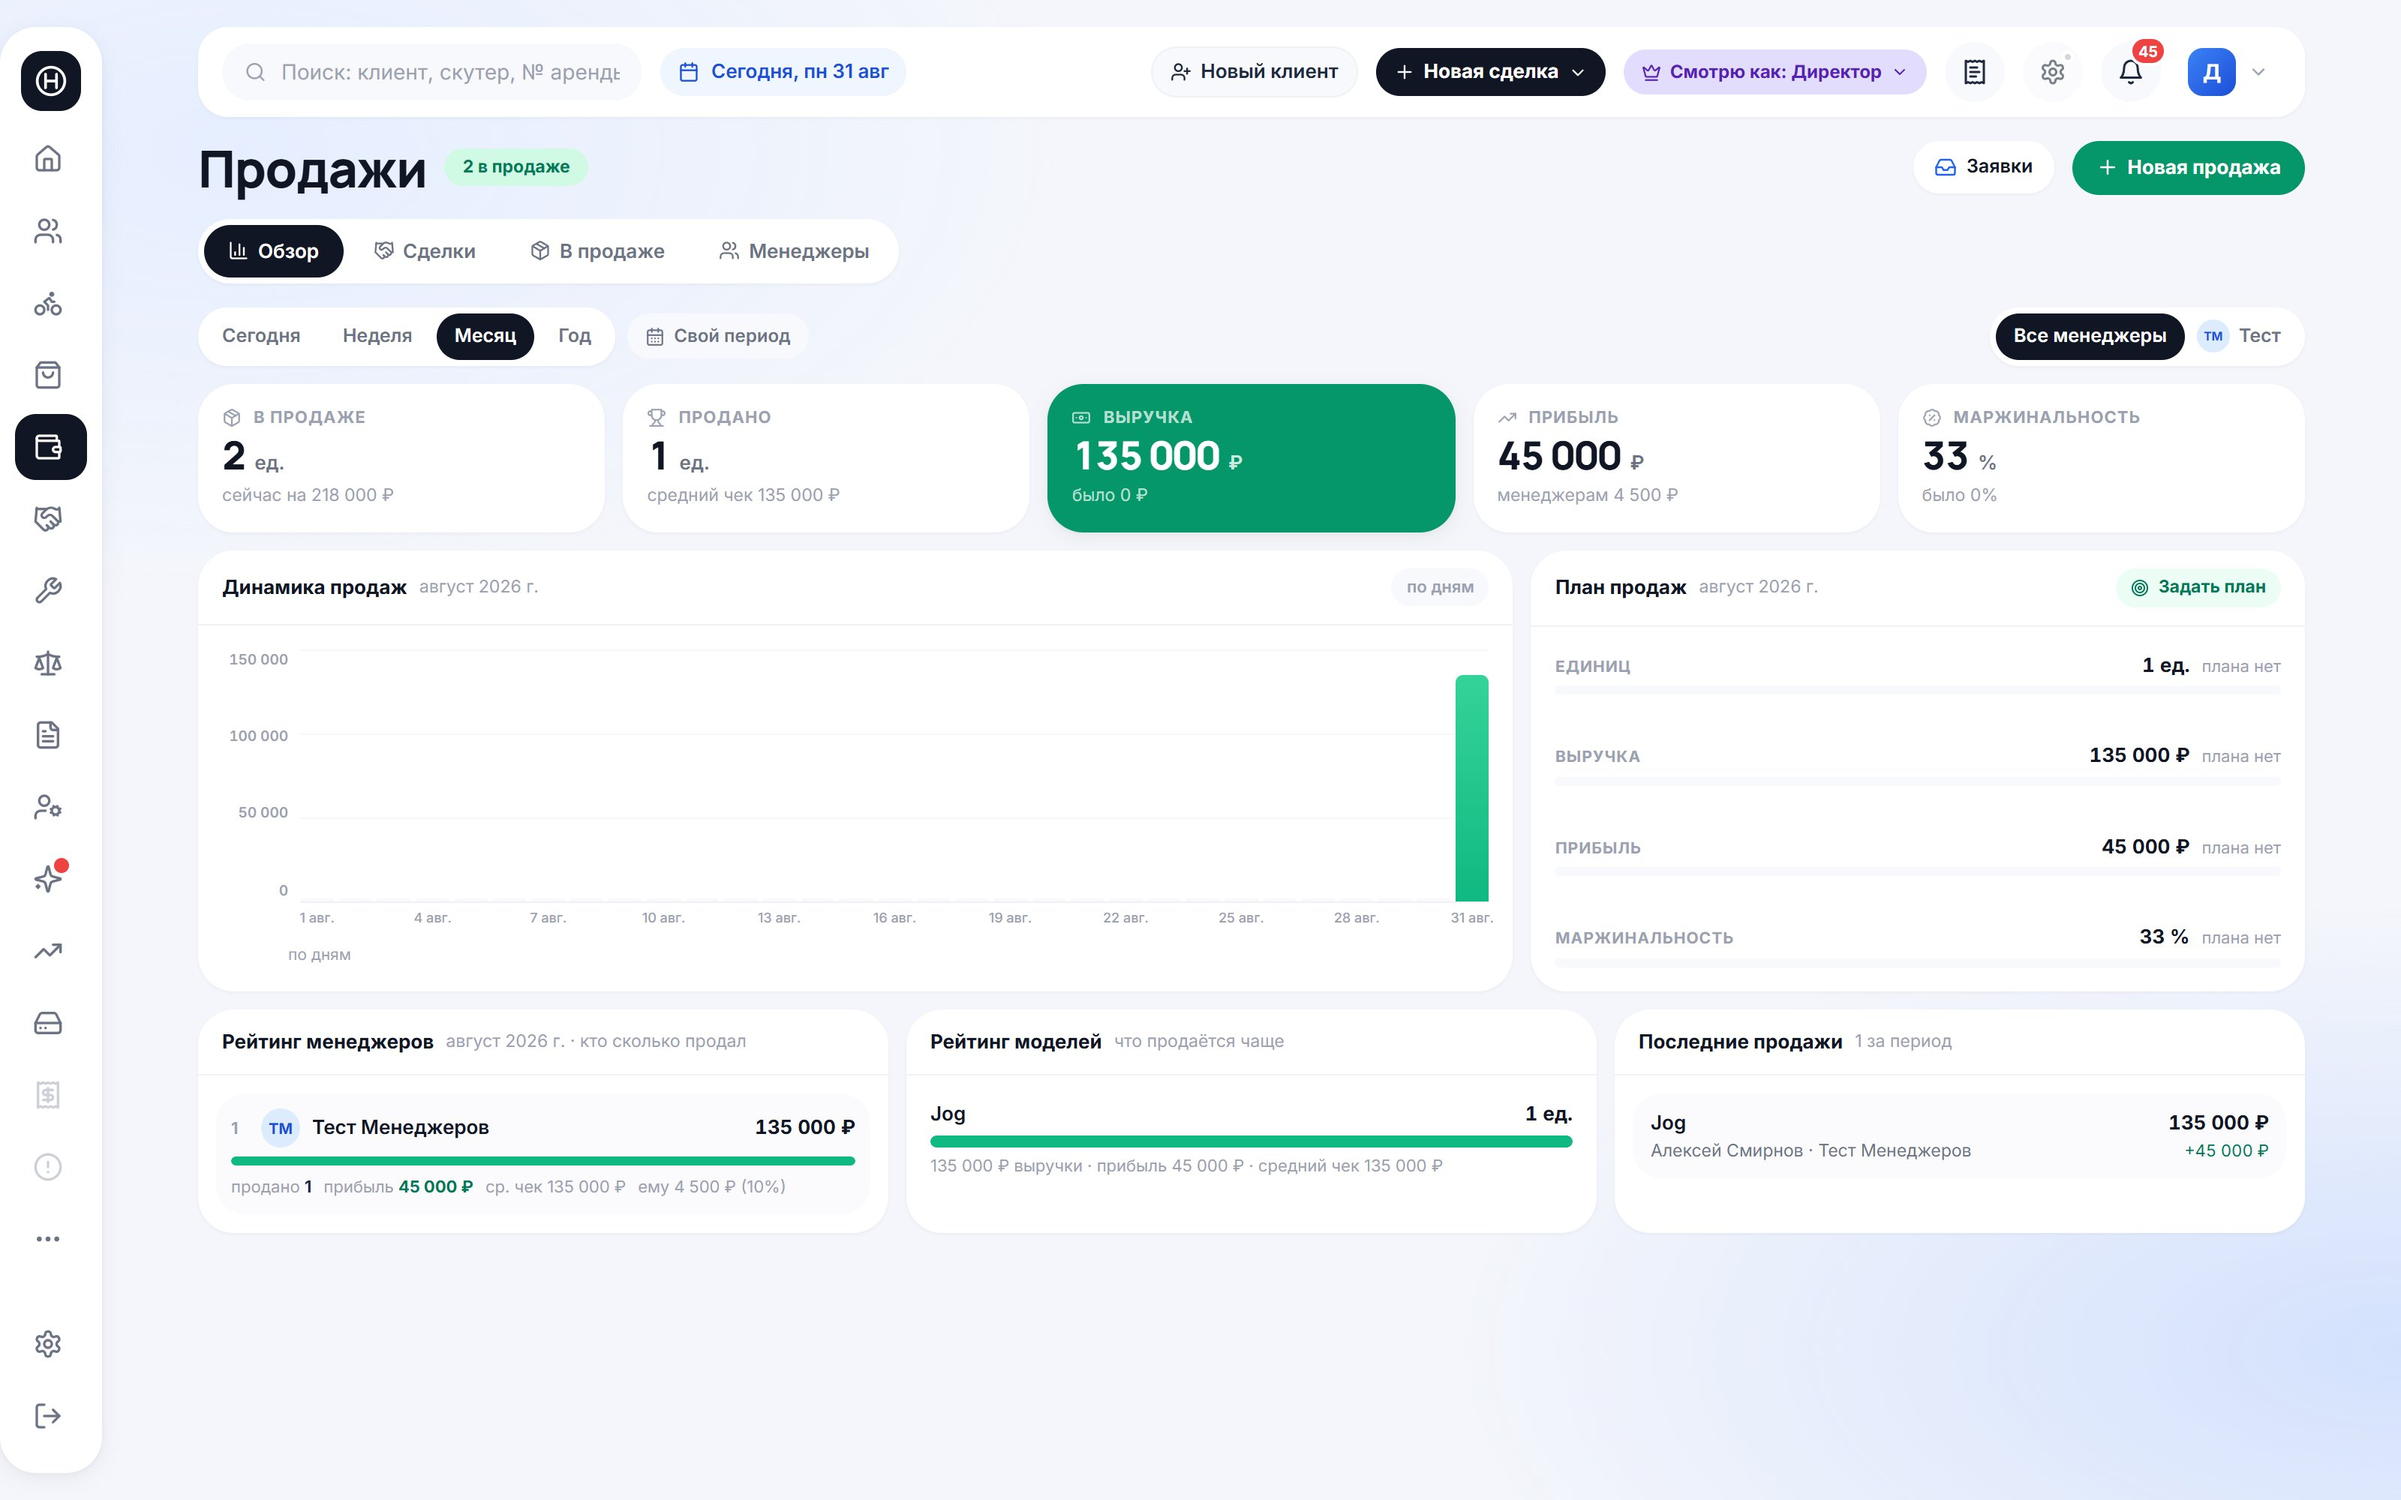
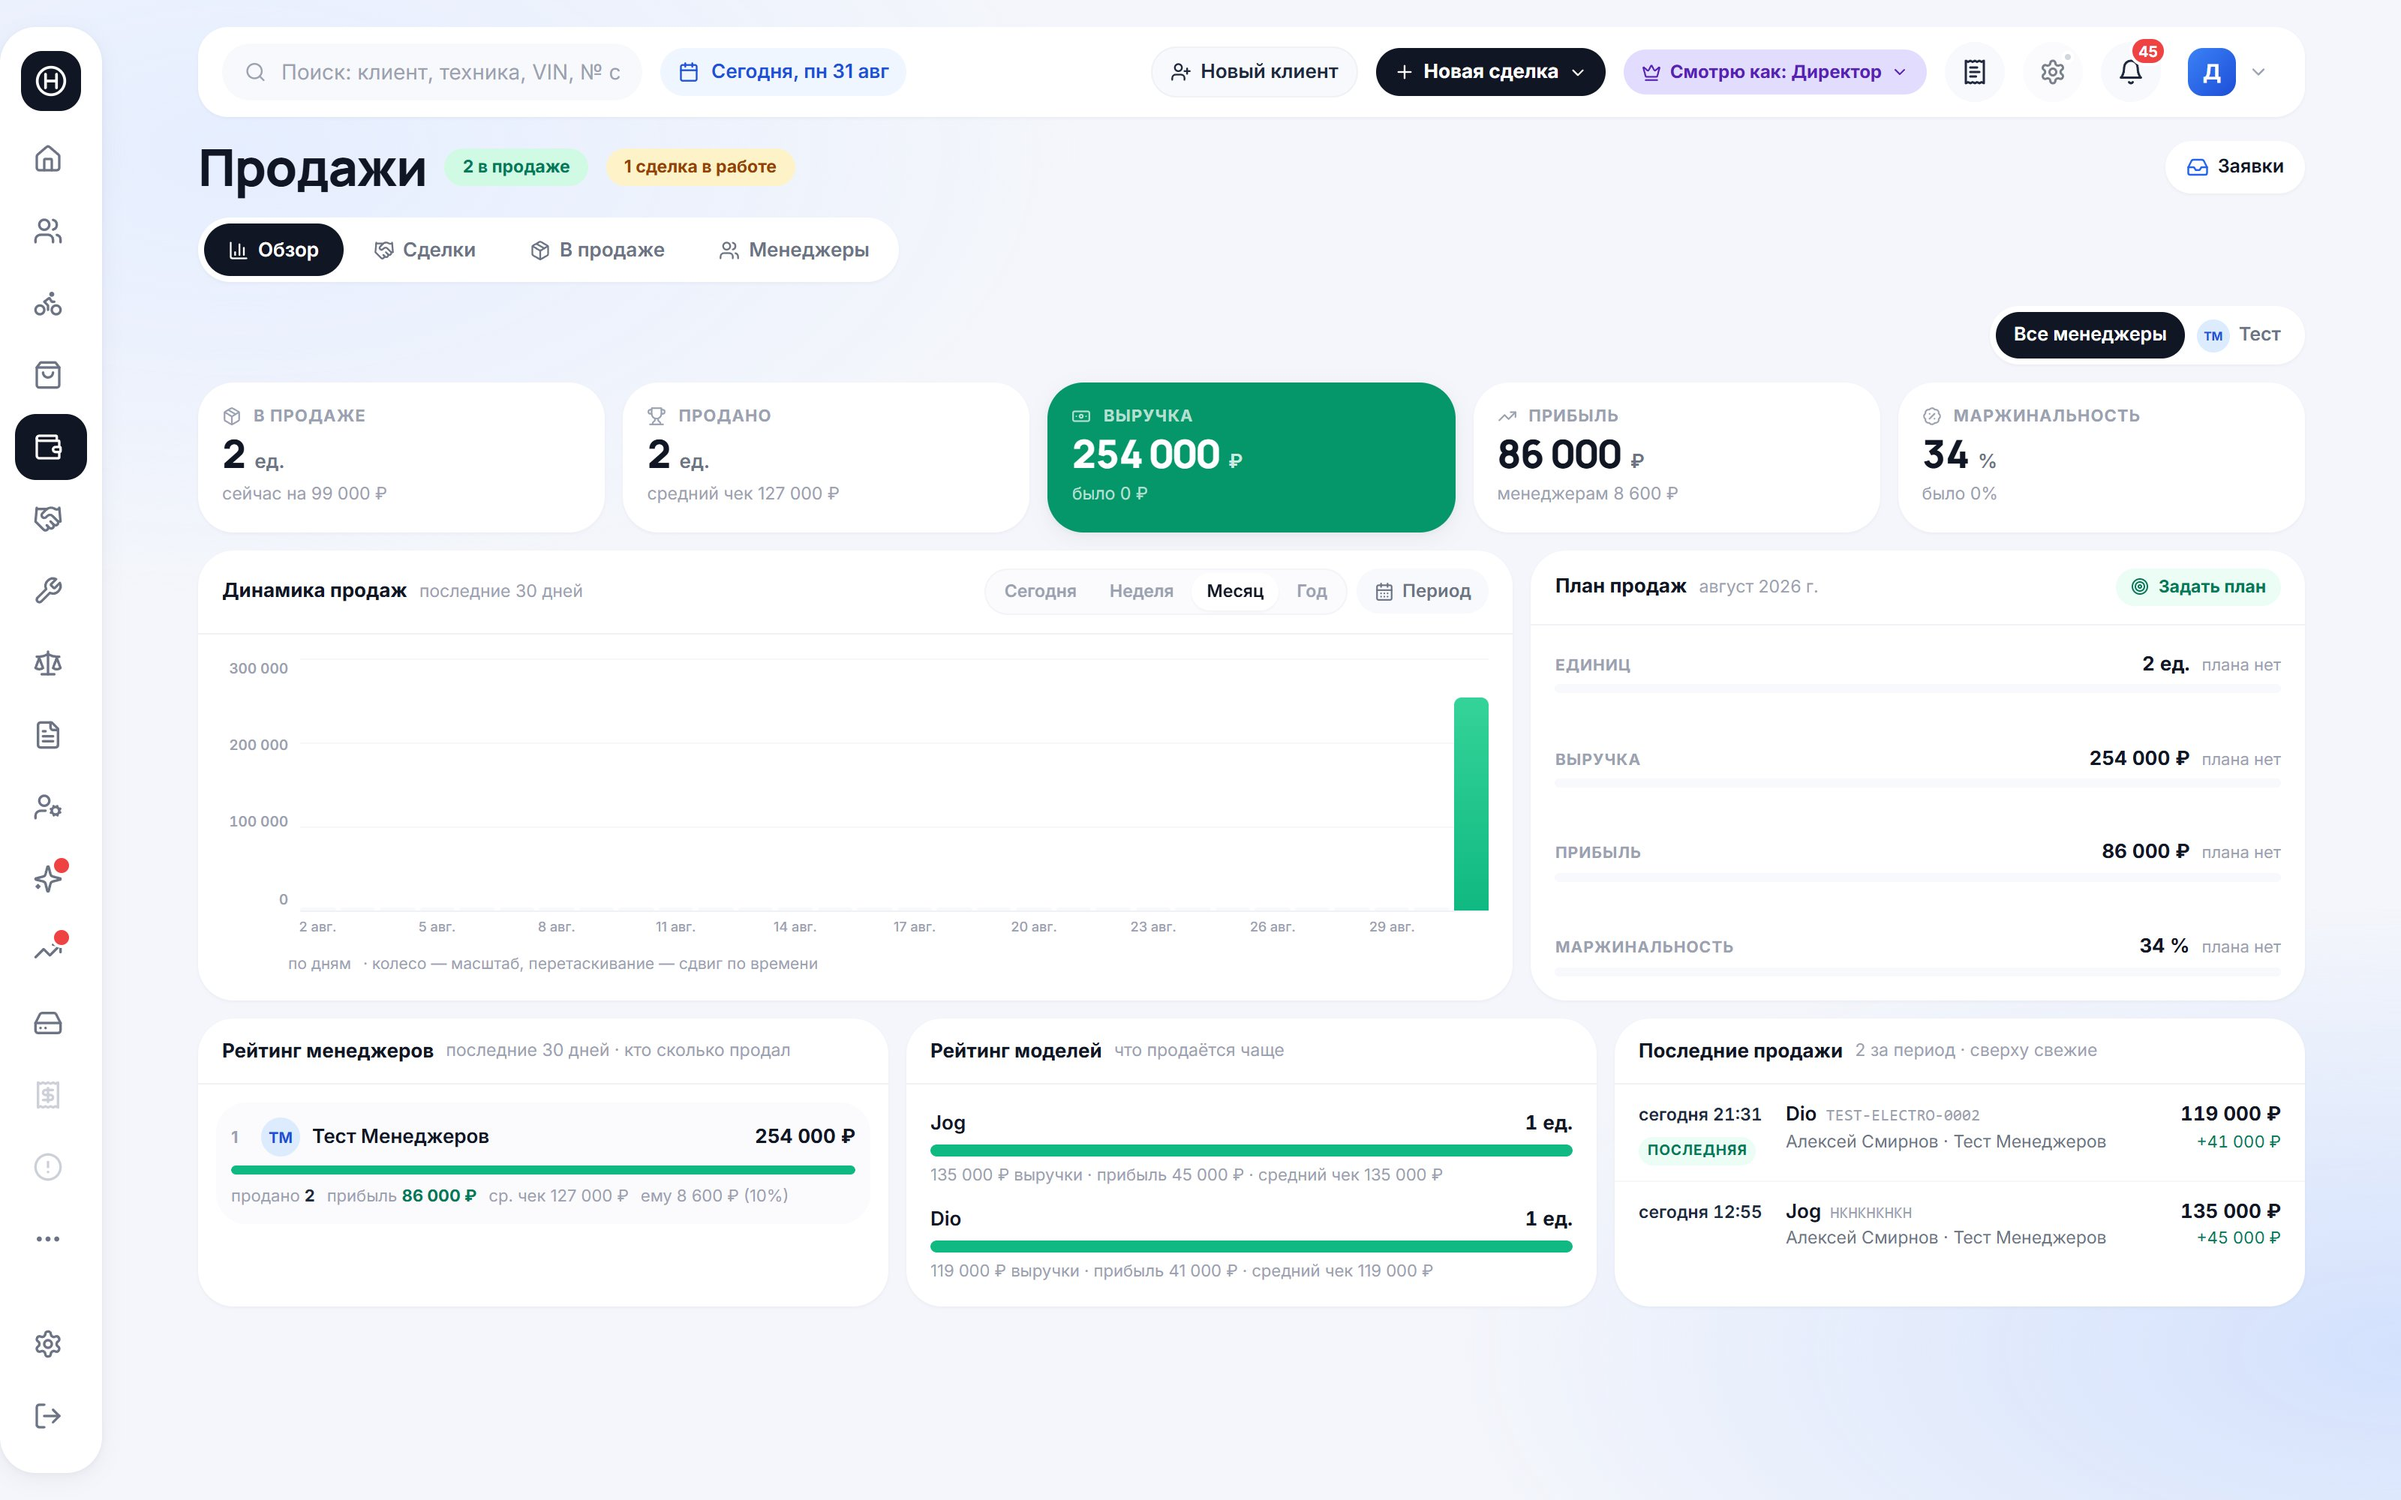
docs(развитие): период в шапке графика и порядок фильтров в «Сделках»

diff --git a/apps/web/src/data/progress.ts b/apps/web/src/data/progress.ts
@@ -1523,7 +1523,7 @@ export const progressItems: ProgressItem[] = [
       {
         tag: "fix",
         text:
-          "«Последние продажи» показываются лентой сверху вниз с колонкой времени — «сегодня 21:31», «вчера 09:05», «28 авг 17:40» — и меткой «последняя» у свежей. Раньше это была сетка в две колонки без единой даты, и понять порядок сделок было невозможно. Убраны пустоты: динамика и план стоят в одной строке одинаковой высоты, рейтинги менеджеров и моделей и «Последние продажи» — в одном ряду из трёх карточек. Рейтинг менеджеров показан списком, а не таблицей: семь столбцов в узкой колонке обрезались краем, и половина цифр была не видна. Все показатели наверху пересчитываются под выбранный период; «В продаже» — единственный, который считается на сейчас, и это подписано.",
+          "Переключатель периода переехал в шапку «Динамики продаж» и получил другой вид — полупрозрачное «стекло» вместо плотных пилюль: рядом с табами раздела получался частокол одинаковых переключателей, и глаз путался, что здесь навигация, а что фильтр. В «Сделках» строка фильтров выстроена как период → поиск → статусы, статусы прижаты к правому краю. «Последние продажи» показываются лентой сверху вниз с колонкой времени — «сегодня 21:31», «вчера 09:05», «28 авг 17:40» — и меткой «последняя» у свежей. Раньше это была сетка в две колонки без единой даты, и понять порядок сделок было невозможно. Убраны пустоты: динамика и план стоят в одной строке одинаковой высоты, рейтинги менеджеров и моделей и «Последние продажи» — в одном ряду из трёх карточек. Рейтинг менеджеров показан списком, а не таблицей: семь столбцов в узкой колонке обрезались краем, и половина цифр была не видна. Все показатели наверху пересчитываются под выбранный период; «В продаже» — единственный, который считается на сейчас, и это подписано.",
       },
       {
         tag: "fix",
